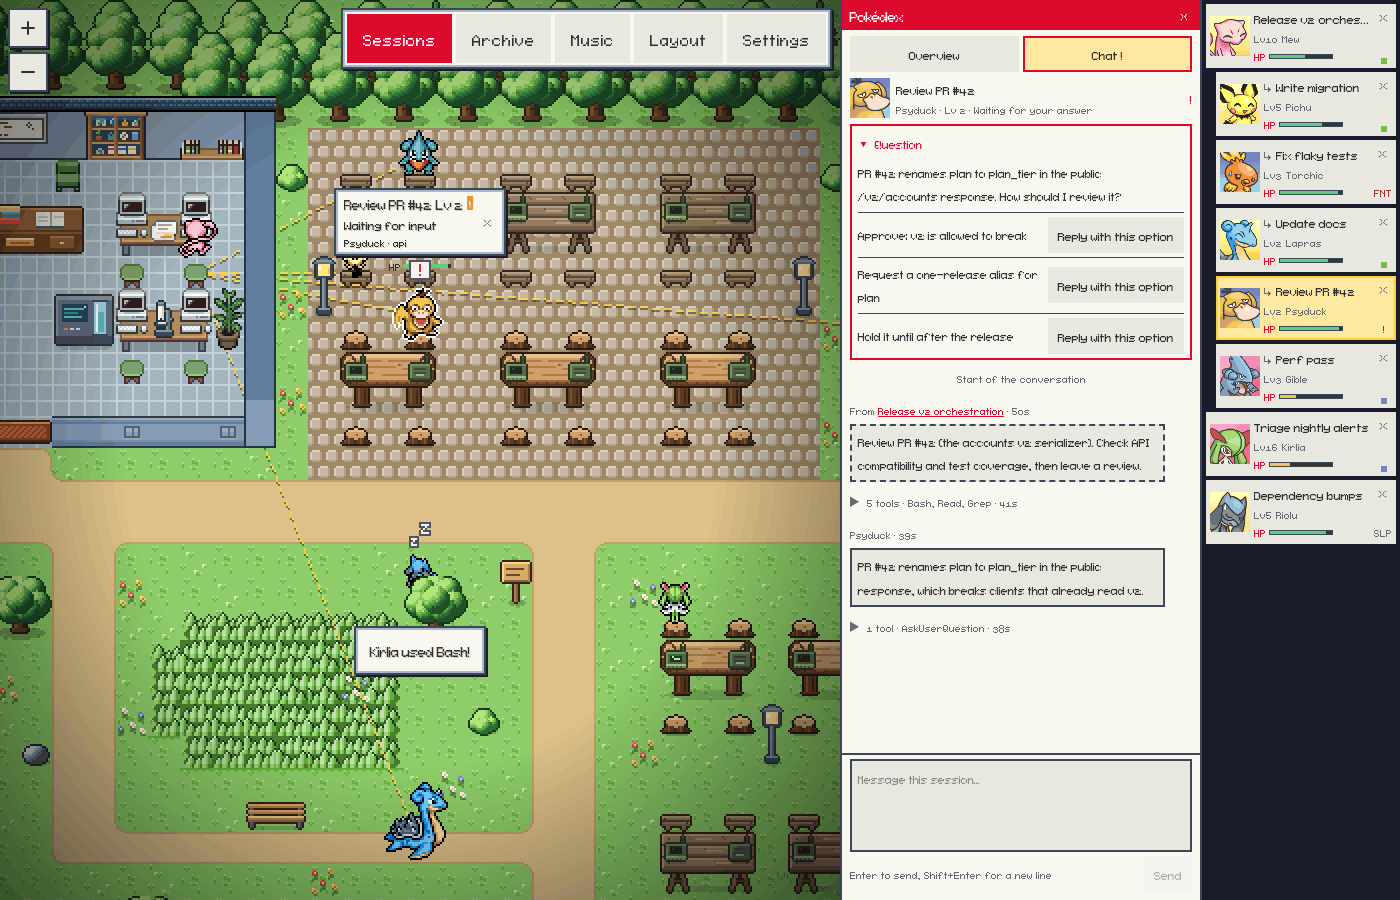
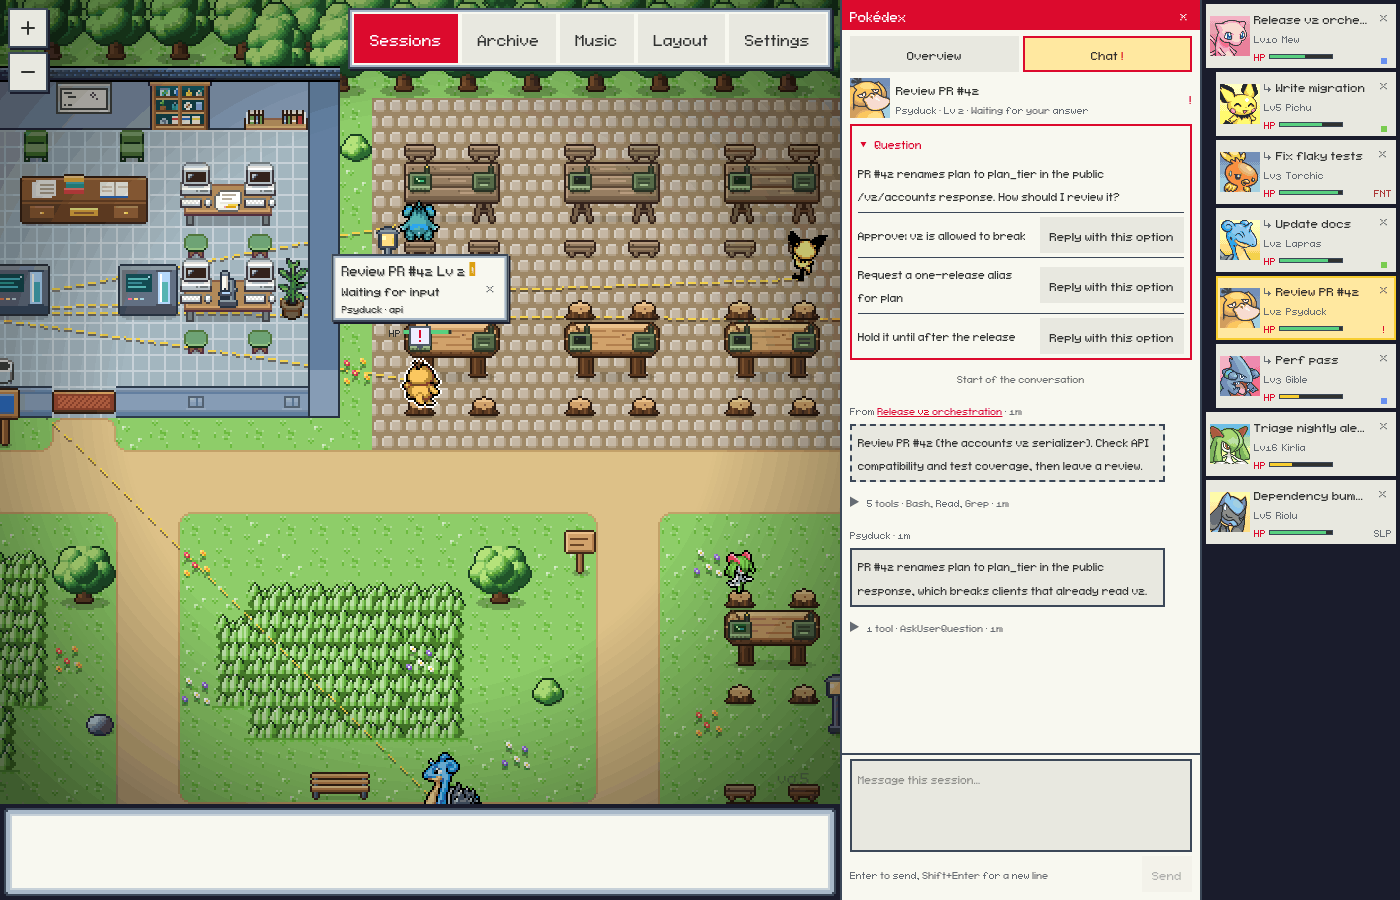
docs: show a full town in the README
The opening shot is about eighty Pokémon, the write-up matches the current office, and Pixel Agents stays a one-line credit.

diff --git a/README.md b/README.md
@@ -2,13 +2,17 @@
 
 Watch your [Conductor](https://conductor.build) cloud sessions as Pokémon in a small pixel-art town.
 
-![The town in demo mode, zoomed out: the Lead at a desk in the Lab, workers at the Work Yard's picnic tables with a message orb flying to the Lead, a fainted Pokémon in a Pokémon Center bed, one working in the Grove, and idle ones in the Meadow](docs/screenshots/town-2x.png)
+![About eighty Pokémon across the town: the Lab, a full Work Yard and the Pokémon Center along the top, the Meadow, the Grove and the pond below, a fainted Pokémon in a Center bed, and the battle log in the message bar under the map](docs/screenshots/town-2x.png)
 
-Poke Agents is inspired by and based on [Pixel Agents](https://github.com/pixel-agents-hq/pixel-agents) by Pablo De Lucca, under the [MIT License](LICENSE). The screenshots in this README come from the built-in [demo](#demo), with synthetic sessions.
+Inspired by [Pixel Agents](https://github.com/pixel-agents-hq/pixel-agents).
+
+The opening screenshot fills the town with about eighty synthetic sessions. The others come from the built-in [demo](#demo), which plays a smaller cast.
 
 ## What It Is
 
 Poke Agents is a visualizer for Conductor. Each cloud session is a Pokémon: it works at a table outdoors (a Lead at a desk in the Lab) while the session runs tools, wanders and naps when the session is idle, faints when it errors, and calls for you when it needs an answer. When one session starts or messages others, the town draws the links between them and the messages they send. It runs as a Mac app or in a browser window next to Conductor.
+
+The map is the office. Scroll or drag to look around the town, and pinch or ⌘-scroll to zoom. The party bar on the right is every session in view, with its portrait, level, HP and status. The message bar under the map types the battle log and the result of anything you just clicked, and it never covers the town. Click a Pokémon, or its party slot, for the Pokédex: Overview for the session's facts and actions, Chat for the conversation.
 
 All coding happens in Conductor, with your Conductor settings: models, environment, repositories and agents stay configured there.
 
@@ -17,11 +21,11 @@ All coding happens in Conductor, with your Conductor settings: models, environme
 - **What it never does:** start sessions on its own, run agents or code, edit repositories, or store or change your Conductor settings or API key. **Hide**, **Pin** and **Change Pokémon…** only change what Poke Agents shows; Conductor isn't told.
 - **What it stores:** its own view of your sessions under `~/.pixel-agents/` (see [Configuration](#configuration)): the scope, hidden and pinned sessions, seats and each session's Pokémon.
 
-The exception is `--claude`, the local Claude Code mode from Pixel Agents. It is opt-in, `npm start` never turns it on, and the Mac app doesn't offer it. It launches Claude Code in a terminal inside the office and, after you agree in the app, installs hooks in `~/.claude/settings.json`.
+The exception is `--claude`, an opt-in mode for local Claude Code sessions. `npm start` never turns it on, and the Mac app doesn't offer it. It launches Claude Code in a terminal inside the office and, after you agree in the app, installs hooks in `~/.claude/settings.json`.
 
 ## Features
 
-- **The town.** Leads work at the desks in the Lab. Every other working session sits at a picnic or log table in the Work Yard or the Grove, where the field terminals light up while it works, or works standing nearby when every seat is taken. Idle ones wander and nap in the Meadow's tall grass and around the pond. Fainted ones lie in the Pokémon Center's beds until they are revived. The town is larger than the window: scroll with two fingers or the mouse wheel, or drag the ground, to look around, and pinch or ⌘-scroll to zoom. **Layout → Templates** switches between the town and the classic Pixel Agents office. A town an earlier version saved, unchanged, becomes the new town when the office starts; one you edited stays as it is.
+- **The town.** Leads work at the desks in the Lab. Every other working session sits at a picnic or log table in the Work Yard or the Grove, where the field terminals light up while it works, or works standing nearby when every seat is taken. Idle ones wander and nap in the Meadow's tall grass and around the pond. Fainted ones lie in the Pokémon Center's beds until they are revived. The town is larger than the window: scroll with two fingers or the mouse wheel, or drag the ground, to look around, and pinch or ⌘-scroll to zoom. **Layout → Templates** switches between the town and the classic office. A town an earlier version saved, unchanged, becomes the new town when the office starts; one you edited stays as it is.
 - **A Pokémon per session.** Each visible session is a Pokémon that keeps its species. It works at its seat while the session runs tools, nods along on read tools, and hops when a turn ends.
 - **Levels and evolution.** `Lv` comes from the session's message count. A Pokémon evolves at Lv 16 and Lv 36 when its line has later stages.
 - **Status conditions.** `SLP` when a session has been idle for a while, `FNT` when it errors, and `!` when it waits for your answer or a permission.
@@ -41,9 +45,13 @@ The exception is `--claude`, the local Claude Code mode from Pixel Agents. It is
 - **Mac app.** The same office in its own window, with notifications when a session needs you or faints and a Dock badge counting the sessions waiting on you. See [Mac App](#mac-app).
 - **Demo mode.** A scripted office of synthetic sessions, for trying Poke Agents without a Conductor account. See [Demo](#demo).
 
-Turning the Pokémon theme off in Settings brings back the Pixel Agents look. **Layout** opens Pixel Agents' layout editor for floors, walls, furniture and Areas (see [Pixel Agents' README](https://github.com/pixel-agents-hq/pixel-agents#readme) and [docs/external-assets.md](docs/external-assets.md)).
+Turning the Pokémon theme off in Settings brings back the plain office. **Layout** opens the layout editor for floors, walls, furniture and Areas (see [docs/external-assets.md](docs/external-assets.md)).
+
+![The Pokédex Overview for a session waiting on a question: its Pokémon, level and context left, the workspace, agent and model, and Open in Conductor, Switch model, Change Pokémon, Pin, Hide and Archive](docs/screenshots/pokedex-overview.png)
 
 ![The Pokédex's Chat tab on a session waiting on a question, with three options and the reply box](docs/screenshots/pokedex-chat.png)
+
+![Switch model, starting a new session in the same workspace: Claude, Codex or Cursor, a favorite model, effort, and a first message you can edit](docs/screenshots/switch-model.png)
 
 ![The party bar beside the Pokémon Center: FNT on the fainted session, ! on the one waiting for an answer, SLP on the sleeper, and the battle log in the message bar under the town](docs/screenshots/party-and-battle-log.png)
 
@@ -174,7 +182,7 @@ On the first launch the office shows **Connect to Conductor** (see [Sign In](#si
 
 `npm run app:dev` runs the app unpackaged, with **View → Toggle Developer Tools**.
 
-![The app's window in demo mode, captured from the Electron build on Linux, so without the macOS title bar](docs/screenshots/app-window.png)
+![The office in demo mode, the same view the Mac app shows in its own window](docs/screenshots/app-window.png)
 
 ### Command Line
 
@@ -214,7 +222,7 @@ The demo plays a scripted story with synthetic sessions instead of connecting to
 
 Everything in the office works on the demo's sessions, and nothing reaches Conductor: **Open in Conductor** says there is nothing to open. Sprites, cries and radio tracks download as usual. The first round, about five minutes long, plays the same way every time; then the Lead hands out new tasks. `--demo-seed <n>` varies the history and later rounds, and `--demo-speed <x>` plays the story faster or slower. The demo keeps its seats in its own file and never replaces an office that shows your real sessions.
 
-![The demo office a minute in, as it opens on the Lab and the Work Yard: the Lead at a Lab desk, workers at the Work Yard's tables with a message orb in flight, one at a table in the Grove, and an idle one in the tall grass](docs/screenshots/town.png)
+![The demo office as it opens, on the Lab and the Work Yard, with the battle log in the message bar: the Lead at a Lab desk, workers at the picnic tables, one asleep in the tall grass, and the party beside the map](docs/screenshots/town.png)
 
 ## Sign In
 
@@ -256,13 +264,13 @@ While the office shows **Connect to Conductor** it looks for that sign-in every 
 | `--rotate-token`         | off          | Replace the office token. Every URL that carried the old one stops working.                                                                                                                                                                                      |
 | `--no-conductor`         | Conductor on | Don't connect to Conductor.                                                                                                                                                                                                                                      |
 | `--conductor-budget <n>` | `120`        | Most Conductor API requests per minute.                                                                                                                                                                                                                          |
-| `--no-sprites`           | sprites on   | Never download sprites. The office shows the Pixel Agents characters.                                                                                                                                                                                            |
+| `--no-sprites`           | sprites on   | Never download sprites. The office shows the built-in characters.                                                                                                                                                                                                |
 | `--no-sounds`            | sounds on    | Never download cries or radio tracks, or serve the sound pack. Synthesized effects still follow Settings → Sound.                                                                                                                                                |
 | `--no-radio`             | radio on     | Turn off [Poke Agents Radio](#music): the Jukebox lists no radio and downloads no tracks.                                                                                                                                                                        |
 | `--demo`                 | off          | Play the scripted [demo](#demo) with synthetic sessions instead of connecting to Conductor. Not with `--claude`.                                                                                                                                                 |
 | `--demo-seed <n>`        | `42`         | Vary the demo's generated history, replies and later rounds. The first round is the same for every seed. Implies `--demo`.                                                                                                                                       |
 | `--demo-speed <x>`       | `1`          | Demo speed factor, from 0.25 to 20. Implies `--demo`.                                                                                                                                                                                                            |
-| `--claude`               | off          | Also track local Claude Code sessions, as Pixel Agents does: hooks (after you consent in the app), the embedded terminal and **+ Agent**.                                                                                                                        |
+| `--claude`               | off          | Also track local Claude Code sessions: hooks (after you consent in the app), the embedded terminal and **+ Agent**.                                                                                                                                              |
 | `--no-terminal`          | terminal on  | With `--claude`: no embedded terminal, so agents can be watched but not launched from the browser.                                                                                                                                                               |
 
 | Environment variable           | Effect                                                                         |
@@ -277,7 +285,7 @@ While the office shows **Connect to Conductor** it looks for that sign-in every 
 | `POKE_AGENTS_DEMO_SPEED`       | The demo's speed factor when `--demo-speed` is not given.                      |
 | `POKE_AGENTS_SKIP_BUILD`       | `1` skips building `dist/` during `npm install` or `npm ci`.                   |
 
-Poke Agents keeps its data in `~/.pixel-agents/`, shared with Pixel Agents. None of it is a Conductor setting, and none of it holds the Conductor token:
+Poke Agents keeps its data in `~/.pixel-agents/`. None of it is a Conductor setting, and none of it holds the Conductor token:
 
 | File                    | Contents                                                                                                                                                             |
 | ----------------------- | -------------------------------------------------------------------------------------------------------------------------------------------------------------------- |
@@ -349,13 +357,11 @@ Poke Agents is maintained by Josh Le ([@joshle298](https://github.com/joshle298)
 
 Poke Agents is a fan project and is not affiliated with, endorsed, sponsored or approved by Nintendo, The Pokémon Company, Creatures Inc., GAME FREAK inc. or Spike Chunsoft. Pokémon and Pokémon character names are trademarks of Nintendo, Creatures Inc. and GAME FREAK inc.
 
-**Pixel Agents.** Poke Agents is built on [Pixel Agents](https://github.com/pixel-agents-hq/pixel-agents) by Pablo De Lucca, used under the MIT License. The classic office, its characters and most of its furniture come from Pixel Agents; its characters are based on [JIK-A-4, Metro City](https://jik-a-4.itch.io/metrocity-free-topdown-character-pack).
-
 **Original art.** The app icon (the catch orb inside a gold C for Conductor), the catch orb sessions are thrown out of, and the town's art (grass, tall grass, paths, trees, the pond, the buildings and the Lab and Pokémon Center furniture) are original to Poke Agents and drawn in code: by `scripts/generate-icons.mjs` and `scripts/generate-world-assets.mjs`, and pixel by pixel in `webview-ui/src/office/sprites/orb.json`.
 
 **Sprites.** When the Pokémon theme is on, the app downloads sprites and portraits from the PMD Sprite Repository ([sprites.pmdcollab.org](https://sprites.pmdcollab.org), [PMDCollab/SpriteCollab](https://github.com/PMDCollab/SpriteCollab)) to a cache on your computer; the app itself ships none. Sprites credited to CHUNSOFT come from the Pokémon Mystery Dungeon games, © Nintendo, Creatures Inc., GAME FREAK inc. and Spike Chunsoft. Community sprites and portraits are © their credited artists and licensed under [CC BY-NC 4.0](https://creativecommons.org/licenses/by-nc/4.0/): use them only for non-commercial purposes. **Settings → About & credits** lists the artists for each species in use.
 
-**Screenshots.** The screenshots in `docs/screenshots/` show PMD Sprite Repository sprites and portraits as the app draws them (scaled, and animated in the app): Psyduck (portraits: Morei, Felis-Licht, CHUNSOFT), Lapras (portraits: silverfox88, C_Pariah, CHUNSOFT), Mew (sprites: JFain, CHUNSOFT; portraits: Mojo, G〜, CHUNSOFT), Pichu (sprites: Spikey-Valentine, CHUNSOFT; portraits: C_Pariah, CHUNSOFT), Torchic (CHUNSOFT), Kirlia (sprites: JFain, CHUNSOFT; portraits: PhillipsYoung, CHUNSOFT), Chimchar (CHUNSOFT), Gible (portraits: G〜, JFain, CHUNSOFT) and Riolu (portraits: Fearless-Quit, CHUNSOFT); where only portraits are named, the sprites are CHUNSOFT's. They are used here under CC BY-NC 4.0 in a non-commercial project. Apart from these screenshots, the repository contains no Pokémon artwork.
+**Screenshots.** The screenshots in `docs/screenshots/` show PMD Sprite Repository sprites and portraits as the app draws them (scaled, and animated in the app): Bulbasaur (shiny sprites: ShyStarryRain; shiny portraits: ShyStarryRain), Charmander (shiny sprites: ShyStarryRain; shiny portraits: baronessfaron, Moo), Squirtle (shiny sprites: ShyStarryRain, SilverDeoxys563; shiny portraits: ShyStarryRain), Psyduck (portraits: Morei, Felis-Licht, CHUNSOFT; shiny sprites: ShyStarryRain, anonymous contributor; shiny portraits: silverfox88, Morei), Abra (sprites: Emmuffin, CHUNSOFT; portraits: cosmosully, JFain, CHUNSOFT; shiny sprites: Emmuffin, 3Monika4, Tacocoa; shiny portraits: cosmosully, Noo, Tacocoa), Gastly (portraits: JFain, CHUNSOFT; shiny sprites: ShyStarryRain, El_Pangoro_Parse; shiny portraits: El_Pangoro_Parse, Prismatic), Magikarp (portraits: JemDragons, CHUNSOFT; shiny sprites: Noo, Scizivire; shiny portraits: JemDragons, Tacocoa), Lapras (portraits: silverfox88, C_Pariah, CHUNSOFT; shiny sprites: RaoKurai; shiny portraits: Deeshura, silverfox88, Morei, C_Pariah, RaoKurai), Ditto (sprites: Caitemis, CHUNSOFT; portraits: anonymous contributor, CHUNSOFT; shiny sprites: ShyStarryRain; shiny portraits: ShyStarryRain), Eevee (shiny sprites: baronessfaron; shiny portraits: Morei), Dratini (sprites: JFain, CHUNSOFT; portraits: Gust, CHUNSOFT; shiny sprites: Pencil; shiny portraits: ShyStarryRain, Emmuffin, Lovi), Mew (sprites: JFain, CHUNSOFT; portraits: Mojo, G〜, CHUNSOFT), Chikorita (shiny sprites: lokatts; shiny portraits: Moo), Cyndaquil (shiny sprites: lokatts; shiny portraits: Morei, Moo), Totodile (shiny sprites: Moo; shiny portraits: Moo), Pichu (sprites: Spikey-Valentine, CHUNSOFT; portraits: C_Pariah, CHUNSOFT; shiny sprites: Spikey-Valentine, Lovi; shiny portraits: C_Pariah, Lovi), Togepi (portraits: baronessfaron, JFain, CHUNSOFT; shiny sprites: RaoKurai; shiny portraits: ShyStarryRain, RaoKurai), Mareep (sprites: Emmuffin, CHUNSOFT; portraits: Felis-Licht, CHUNSOFT; shiny sprites: Emmuffin, Anonymous; shiny portraits: silverfox88, Morei, Anonymous), Larvitar (sprites: JFain, CHUNSOFT; portraits: Emmuffin, CHUNSOFT; shiny sprites: JFain, Lovi; shiny portraits: Emmuffin, Lovi), Treecko (shiny sprites: Morei, YoukaiMinori; shiny portraits: RaoKurai), Torchic (shiny sprites: Moo; shiny portraits: Moo), Mudkip (shiny sprites: Anonymous; shiny portraits: Morei, Moo), Ralts (sprites: NeroIntruder, JFain, CHUNSOFT; portraits: baronessfaron, CHUNSOFT; shiny sprites: Morei, Moo; shiny portraits: Morei), Kirlia (sprites: JFain, CHUNSOFT; portraits: PhillipsYoung, CHUNSOFT), Bagon (sprites: JFain, CHUNSOFT; portraits: C_Pariah, CHUNSOFT; shiny sprites: Pokejavi.; shiny portraits: Morei), Beldum (portraits: anonymous contributor, CHUNSOFT; shiny sprites: Audino; shiny portraits: Morei, ShyStarryRain, anonymous contributor, Moo), Turtwig (shiny sprites: Chi; shiny portraits: Chi), Chimchar (shiny sprites: Lovi; shiny portraits: Emmuffin), Piplup (shiny sprites: Lovi; shiny portraits: Lovi), Gible (portraits: G〜, JFain, CHUNSOFT; shiny sprites: Lovi; shiny portraits: Morei, Lovi), Munchlax (shiny sprites: El_Pangoro_Parse; shiny portraits: Lovi) and Riolu (portraits: Fearless-Quit, CHUNSOFT; shiny sprites: Anonymous; shiny portraits: Emboarger, Anonymous); where sprites or portraits are not named, they are CHUNSOFT's. They are used here under CC BY-NC 4.0 in a non-commercial project. Apart from these screenshots, the repository contains no Pokémon artwork.
 
 **Cries.** When sounds are on, the app downloads Pokémon cries from the [PokéAPI cries](https://github.com/PokeAPI/cries) project (collected from Pokémon Showdown, Veekun and The Sounds Resource). Cries are © Nintendo, Creatures Inc. and GAME FREAK inc., fetched at runtime and not redistributed. The other sound effects are original and synthesized in the app.
 
@@ -378,6 +384,6 @@ Poke Agents Radio plays these original tracks, each credited as title — author
 
 ## License
 
-Poke Agents is inspired by and based on [Pixel Agents](https://github.com/pixel-agents-hq/pixel-agents) by Pablo De Lucca: it started from Pixel Agents' code and keeps much of it. Both are available under the [MIT License](LICENSE), which keeps the upstream copyright notice. The MIT License covers the source code only, not the downloaded sprites, portraits, cries or music, or the sprites shown in the screenshots.
+Poke Agents is available under the [MIT License](LICENSE). The MIT License covers the source code only, not the downloaded sprites, portraits, cries or music, or the sprites shown in the screenshots.
 
 If Poke Agents makes your agents more fun to watch, star it on GitHub.
